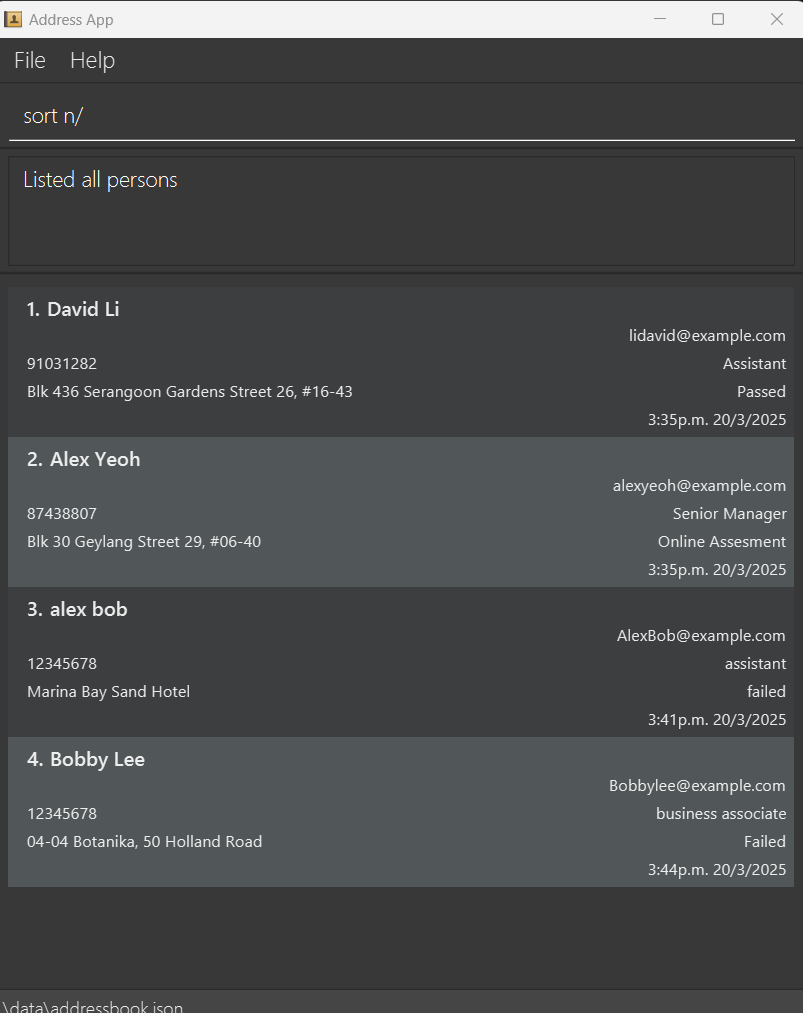
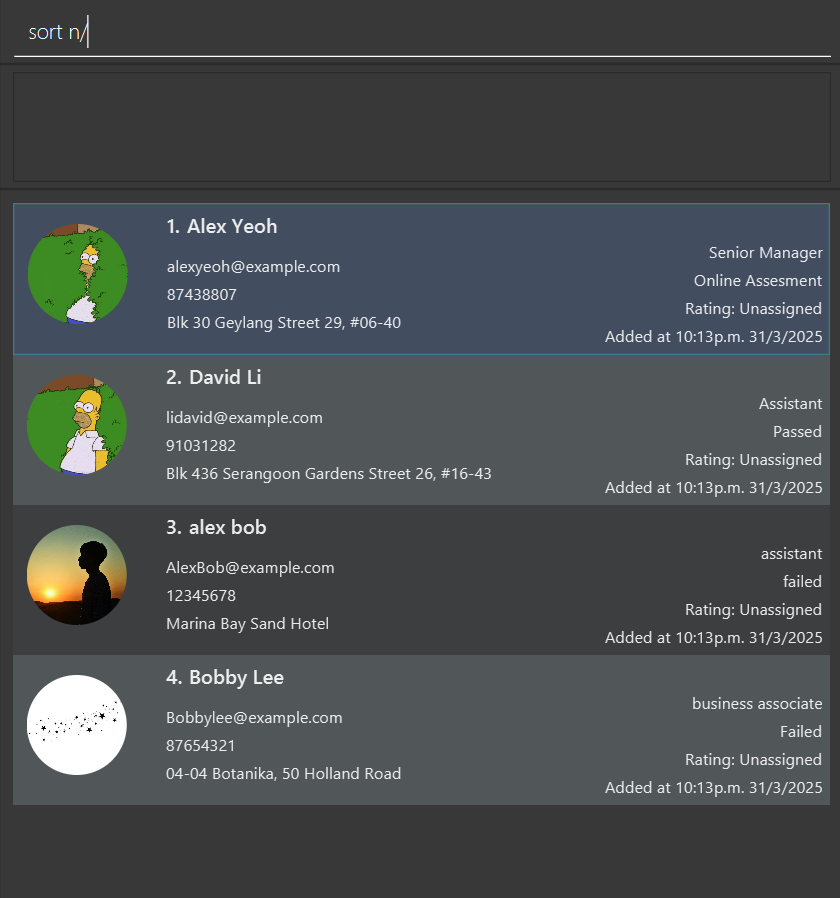
Add applicant photo feature in UG

diff --git a/src/main/java/seedu/address/ui/PersonCard.java b/src/main/java/seedu/address/ui/PersonCard.java
@@ -175,7 +175,7 @@ public class PersonCard extends UiPart<Region> {
     private void handleImageClick() {
         File selectedFile = this.chooseProfilePicture();
 
-        // check if user has selected a file
+        // check if user did NOT select a file
         if (selectedFile == null) {
             return;
         }
@@ -224,7 +224,7 @@ public class PersonCard extends UiPart<Region> {
 
         // Restrict to image file types
         fileChooser.getExtensionFilters().addAll(
-                new FileChooser.ExtensionFilter("Image Files", "*.png", "*.jpg", "*.jpeg"));
+                new FileChooser.ExtensionFilter("Image Files", "*.png", "*.jpg", "*.jpeg", "*.gif"));
 
         // open file chooser and return the selected file
         return fileChooser.showOpenDialog(new Stage());

diff --git a/docs/UserGuide.md b/docs/UserGuide.md
@@ -237,6 +237,24 @@ Statuses ->
 [Online Assessment: 5, Round 1: 7, Resume Screening: 3, Rejected: 3, Accepted: 2, Final interview: 2]
 ```
 
+### Adding/Changing an Applicant's Profile Picture
+
+Update the applicant's **profile picture** through the GUI.
+
+#### Steps:
+1. Click on the applicant’s **profile picture** in the GUI.
+2. A file selection window will pop up.
+3. Choose an image file from your computer and confirm your selection.
+4. The selected image will be set as the applicant's profile picture.
+
+#### Notes:
+* If no image is selected, **no changes** will be made to the profile picture.
+* The supported image formats are **JPG, JPEG, PNG, GIF**.
+* The image will be automatically resized to fit the profile display.
+
+#### Example:
+![edit applicant photo](images/editApplicantPhoto.gif)
+
 
 ### Clearing all entries: `clear`
 
